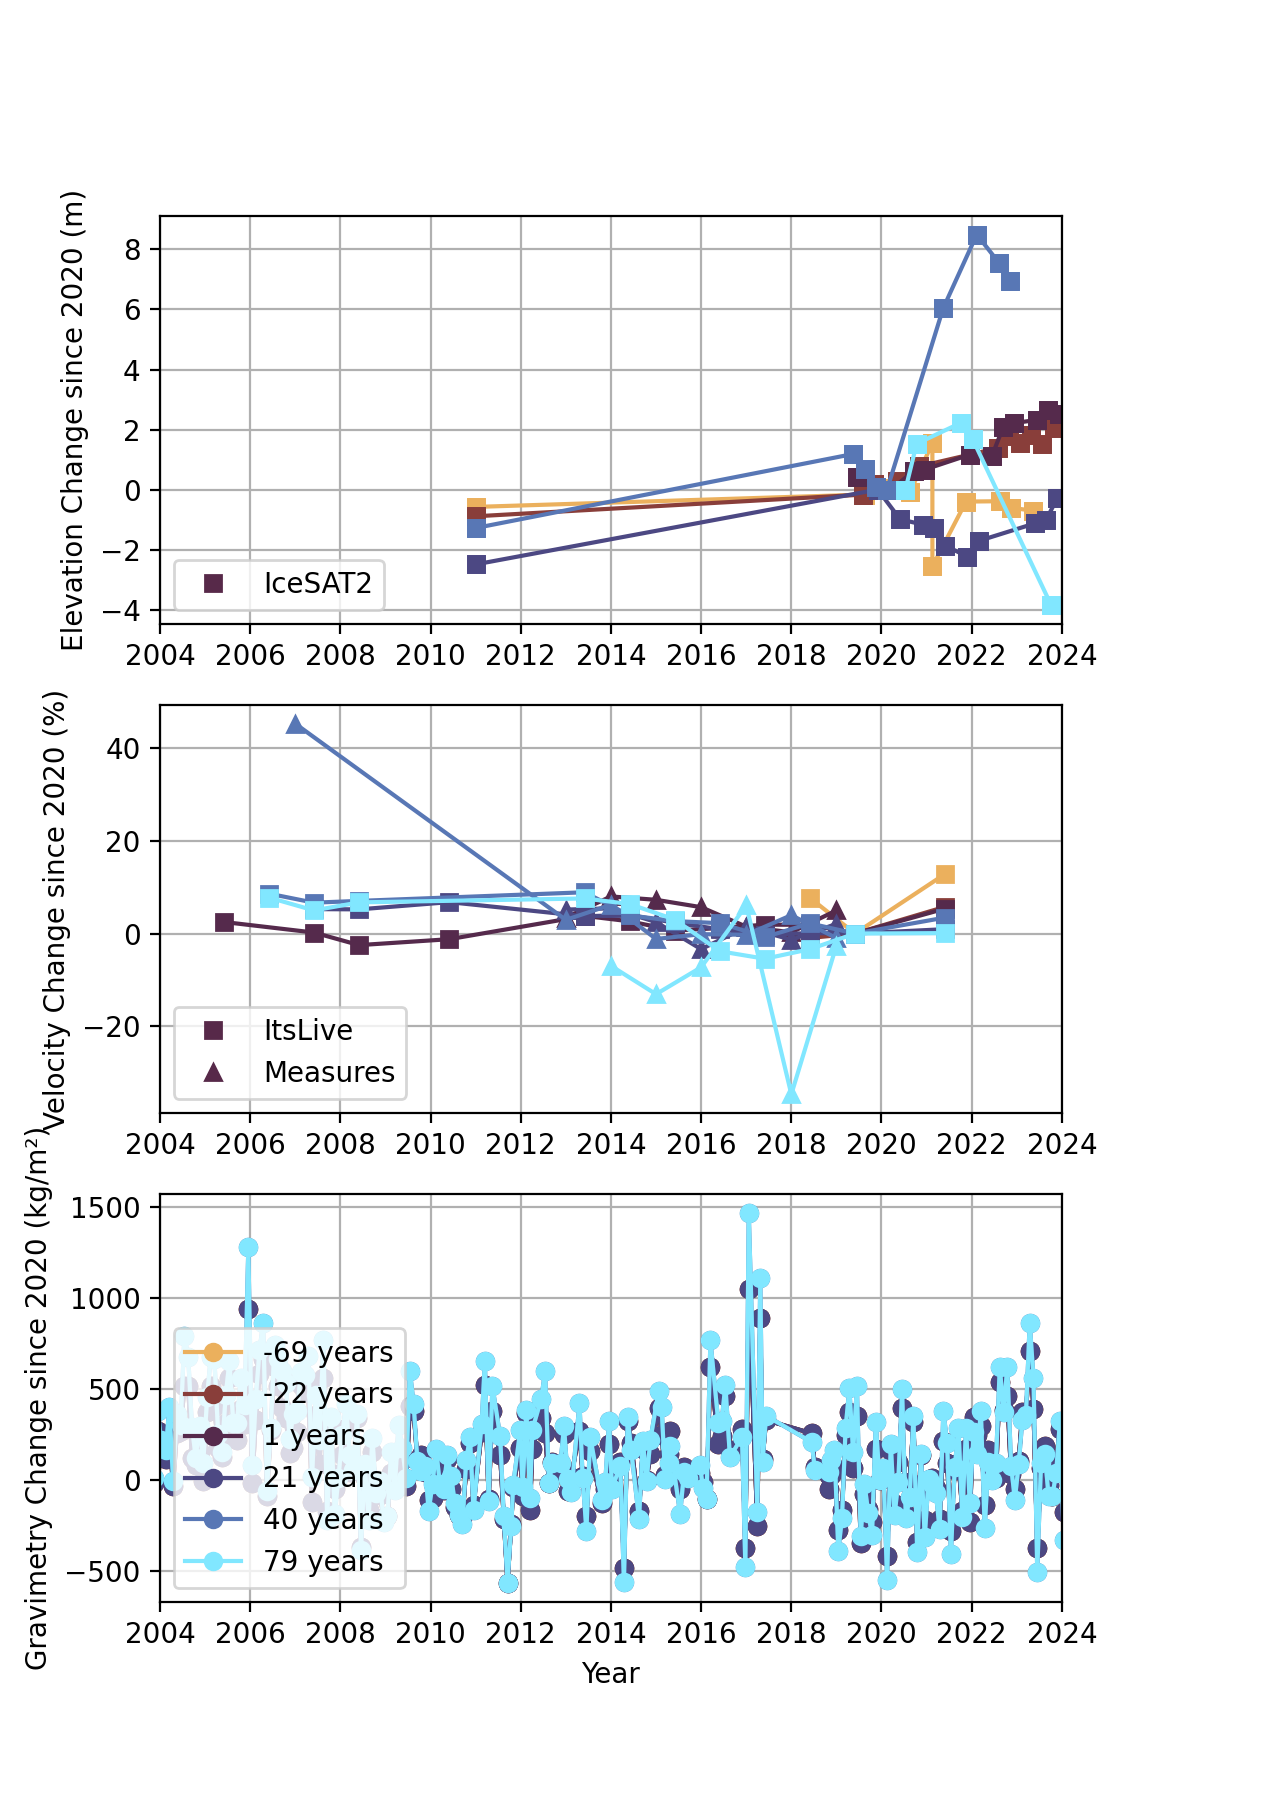
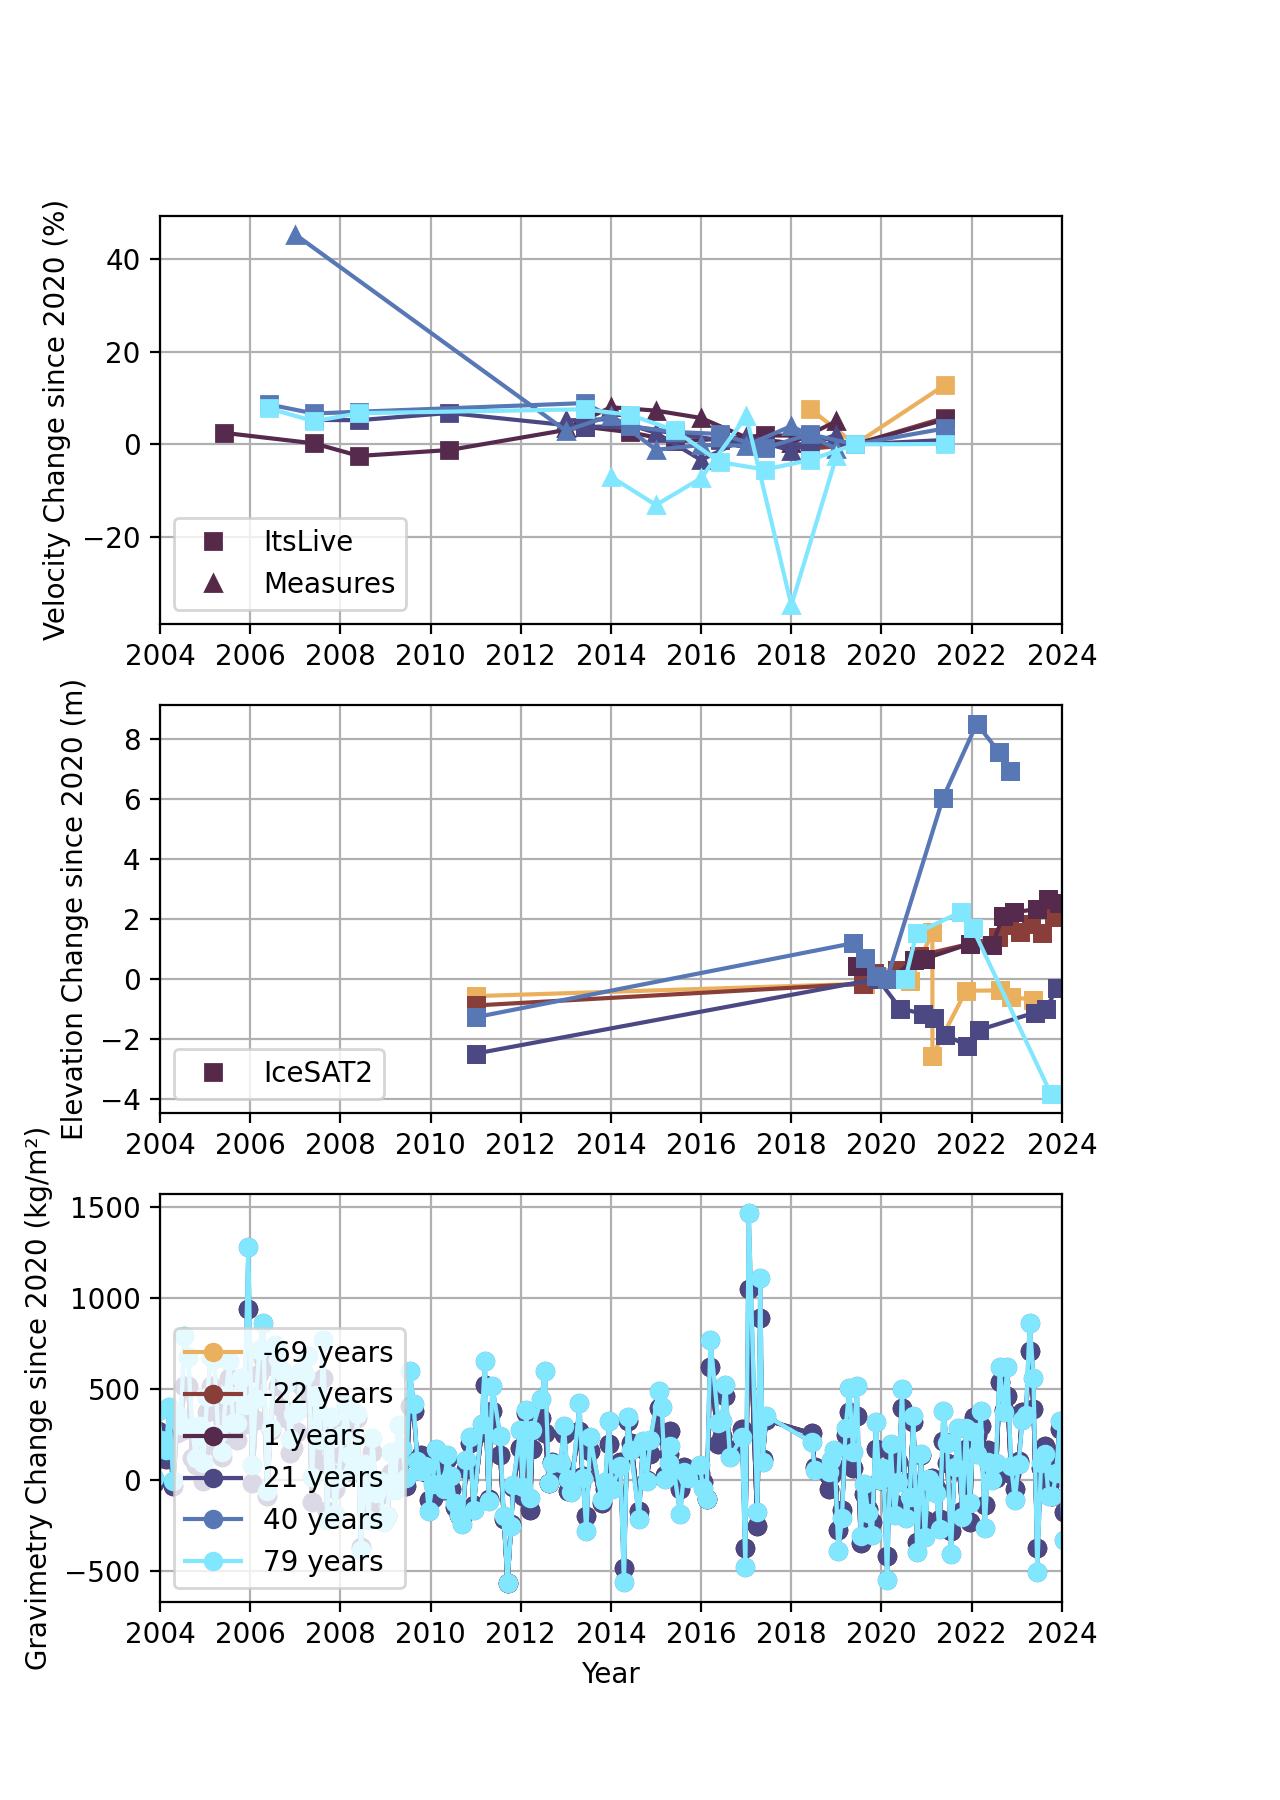
images update

diff --git a/src/main.py b/src/main.py
@@ -95,7 +95,7 @@ class main():
         #print(self.build_files())
         #print(self.build_files(data='elev'))
         #print(self.build_files(data='rema'))
-        print(self.build_files(data='firn'))
+        #print(self.build_files(data='firn'))
 
         #self.get_elevation_error()
 
@@ -204,7 +204,7 @@ class main():
 
     
 
-    def get_points_timeline(self, point, data = ['firn', 'vel', 'grav'], change = True, rema=False): #['vel', 'elev', 'grav'] #  'vel', 'elev', 'firn'
+    def get_points_timeline(self, point, data = ['vel', 'elev', 'grav'], change = True, rema=False): #['vel', 'elev', 'grav'] #  'vel', 'elev', 'firn'
 
         labels = {
             'vel': "Velocity Change since 2020 (%)",

diff --git a/src/file_manager.py b/src/file_manager.py
@@ -763,8 +763,8 @@ class ElevationManager(FileManager):
         ref_file = ref_file.sort_values(by='date')
         ref_file.drop_duplicates()
 
-        lat_g, lon_g, new_vals_g, dates_g = self.apply_rate_(ref_file, ICESAT1_ELEVATION_RATE, False, to_build=2011)
-        lat_f, lon_f, new_vals_f, dates_f = self.apply_rate_(ref_file, ICESAT1_ELEVATION_RATE_FLOATING, True, to_build=2011)
+        lat_g, lon_g, new_vals_g, dates_g = self.apply_rate_(ref_file, ICESAT1_ELEVATION_RATE, False, to_build=to_build)
+        lat_f, lon_f, new_vals_f, dates_f = self.apply_rate_(ref_file, ICESAT1_ELEVATION_RATE_FLOATING, True, to_build=to_build)
 
         lat = lat_g + lat_f
         lon = lon_g + lon_f

diff --git a/src/elevation_errpr.py b/src/elevation_errpr.py
@@ -141,6 +141,7 @@ class ElevationError():
         too_big = xr.DataArray(too_big, coords=ref.coords)
         too_big.rio.write_crs("EPSG:3031", inplace=True)
 
+        print(too_big)
         
 
         

diff --git a/src/pointwise.py b/src/pointwise.py
@@ -370,7 +370,6 @@ class Pointwize():
 
         ymin = dataset.min()
         ymax = dataset.max()
-        print(ymin, ymax)
 
         ypadd = 0.05 * (ymax - ymin)
         if np.isnan(ypadd):
